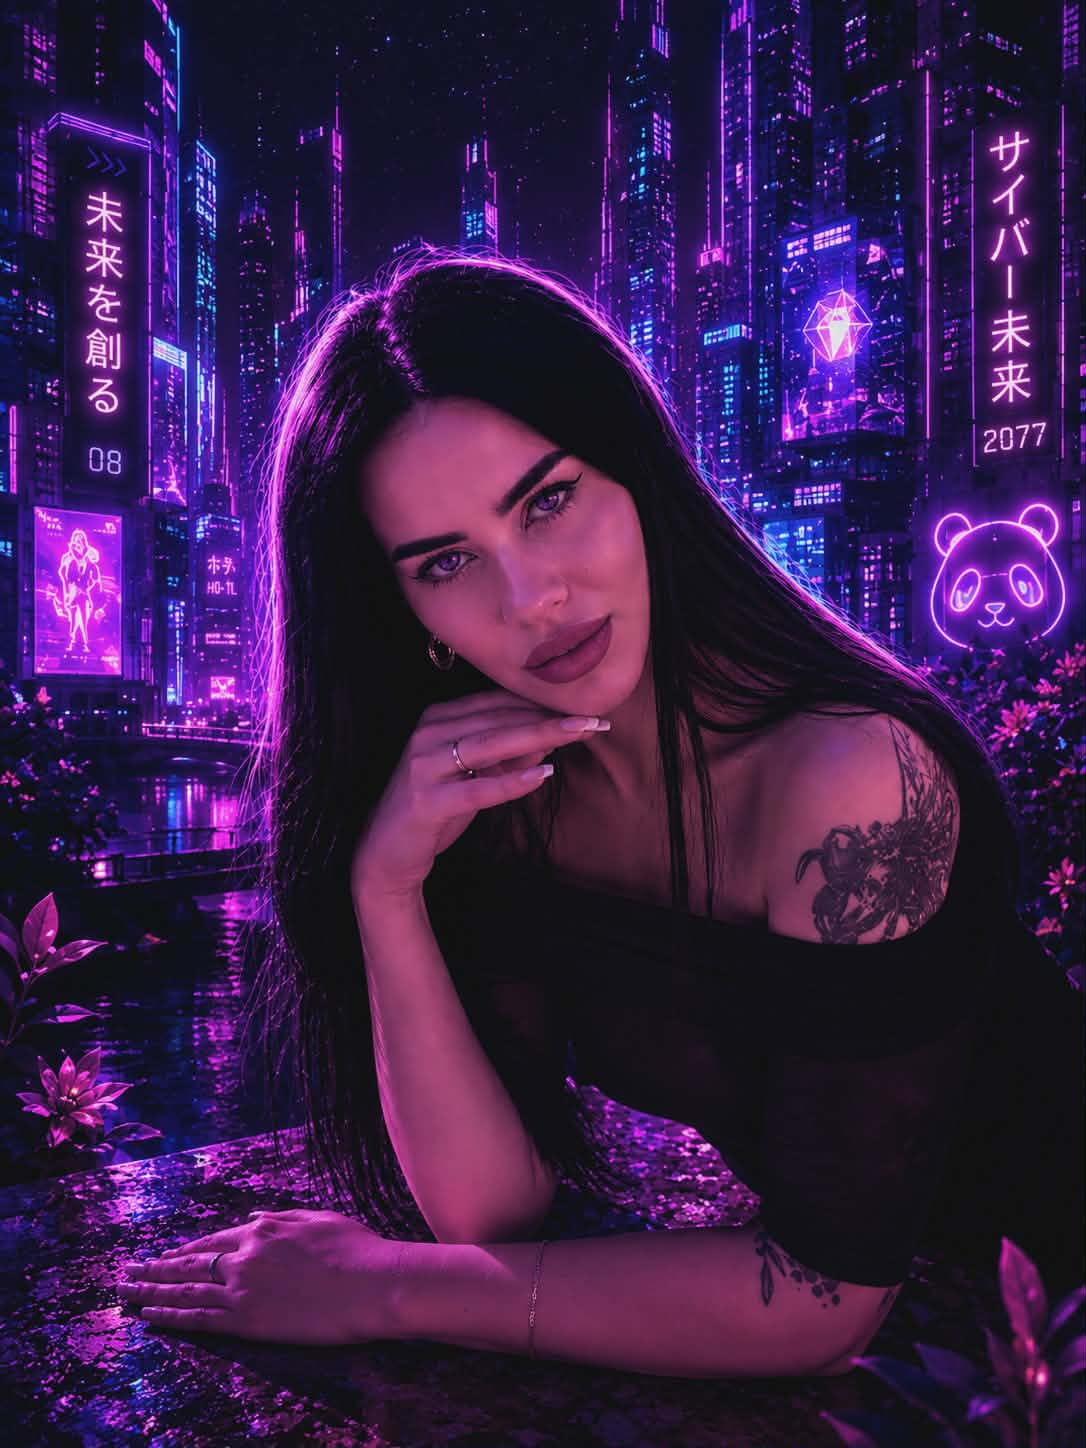
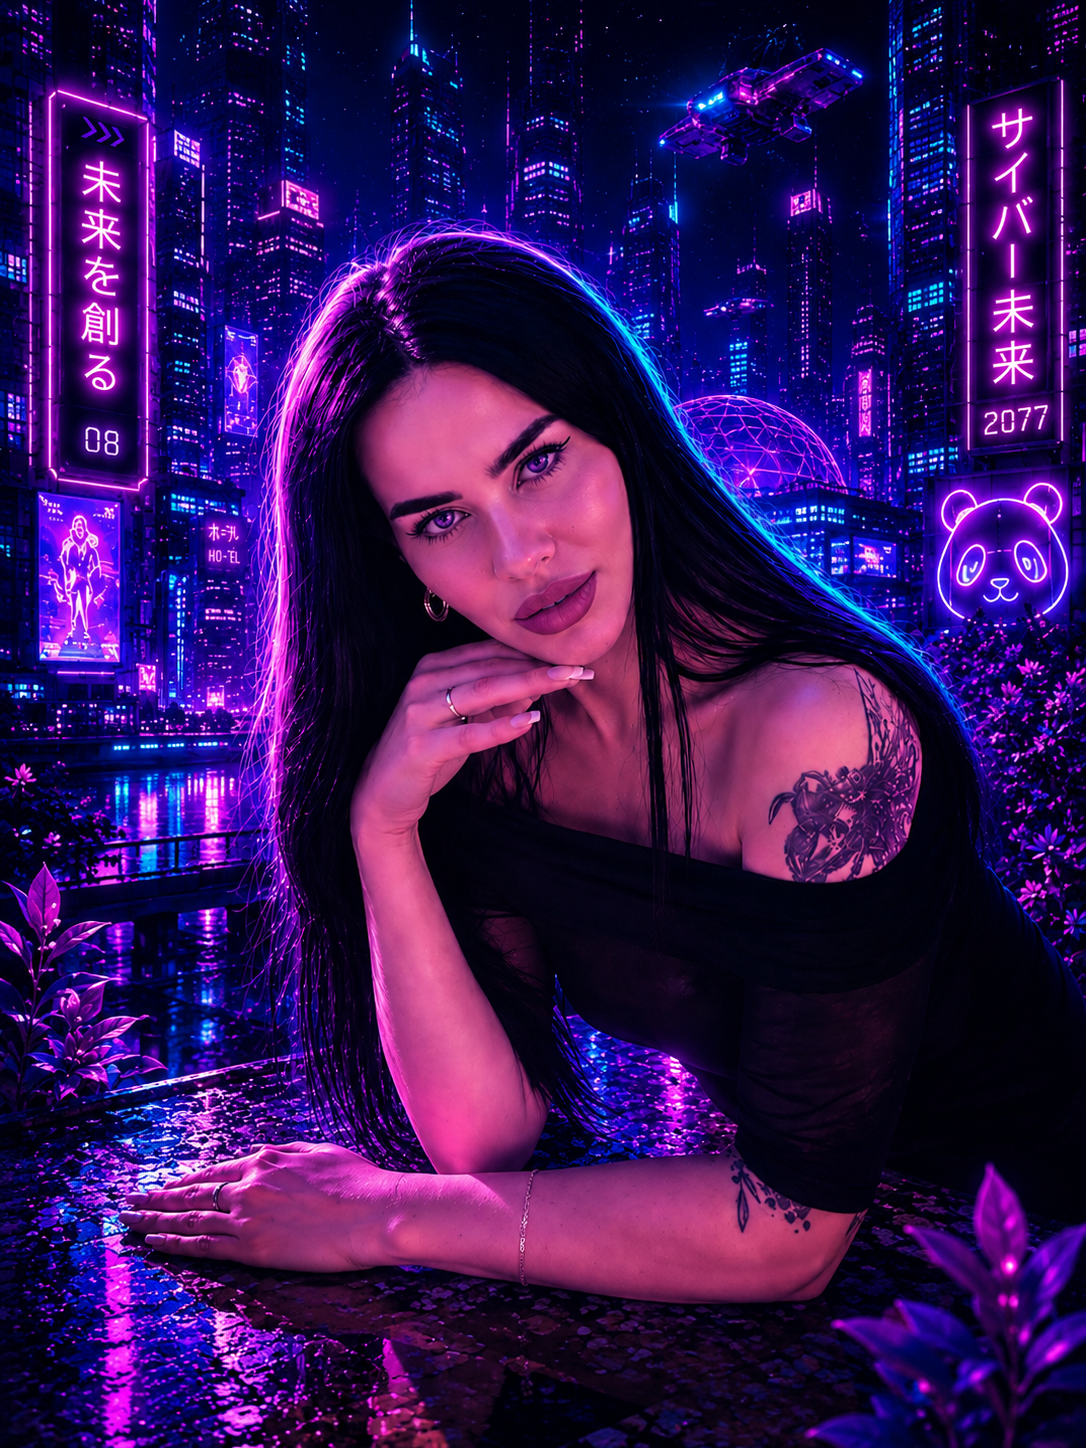
Dodanie formularza kontaktowego i strony podziekowania

diff --git a/templates/podziekowanie.html b/templates/podziekowanie.html
@@ -7,6 +7,7 @@ body { background-image: url('/static/tlo.jpg'); background-size: cover; backgro
 .box { background-color: rgba(8,18,42,0.92); color: #dce6f5; max-width: 600px; margin: 0 auto; padding: 40px; border-radius: 15px; }
 h1 { font-family: 'Audiowide', sans-serif; font-size: 36px; letter-spacing: 2px; transition: all 0.3s ease; cursor: pointer; background: linear-gradient(90deg, #ff4db8, #c44bff, #6e8bff); -webkit-background-clip: text; background-clip: text; -webkit-text-fill-color: transparent; filter: drop-shadow(0 0 1px rgba(230,200,255,0.6)); }
 h1:hover { background: linear-gradient(90deg, #6e8bff, #c44bff, #ff4db8); -webkit-background-clip: text; background-clip: text; -webkit-text-fill-color: transparent; transform: scale(1.05); }
+.ty-img { display: block; margin: 20px auto; max-width: 340px; border-radius: 12px; }
 .przyciski { margin: 30px 0; display: flex; justify-content: center; gap: 20px; flex-wrap: wrap; }
 .btn { display: inline-block; padding: 12px 30px; border-radius: 25px; text-decoration: none; color: #fff; font-weight: bold; background: linear-gradient(90deg, #8e2de2, #ff6ec4); transition: all 0.3s ease; }
 .btn:hover { background: linear-gradient(90deg, #ff6ec4, #8e2de2); transform: scale(1.05); }
@@ -19,6 +20,7 @@ h1:hover { background: linear-gradient(90deg, #6e8bff, #c44bff, #ff4db8); -webki
 {% block content %}
 <div class="box">
 <h1>Dziękujemy, {{ imie }}! 💜</h1>
+<img class="ty-img" src="/static/ty.jpg">
 <p>Twoja wiadomość została pomyślnie wysłana.</p>
 <p>Dziękujemy za kontakt. Odpowiemy na adres <b>{{ email }}</b> tak szybko, jak to możliwe.</p>
 <p><b>W międzyczasie zapraszamy do zapoznania się z naszą stroną.</b></p>
